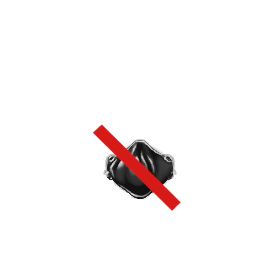
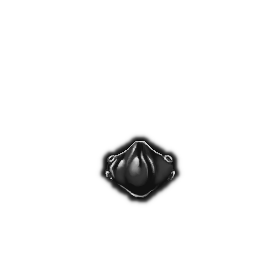
Minor bugs and fixes to Latex Respirator

Changed region(s): [[0.3143, 0.4286, 0.6571, 0.7714]]

diff --git a/BondageClub/Assets/Female3DCG/Female3DCG.js b/BondageClub/Assets/Female3DCG/Female3DCG.js
@@ -6339,9 +6339,9 @@ var AssetFemale3DCG = [
 					{ Name: "Straps", HasType: false, AllowModuleTypes:["s1"],},
 					{ Name: "StrapShade", HasType: false, AllowModuleTypes:["s1"],AllowColorize: false,},
 
-					{ Name: "Base", HasType: false, AllowModuleTypes:["m0"], },
-					{ Name: "Shade", HasType: false, AllowColorize: false, AllowModuleTypes:["m0"],},
-					{ Name: "RoundedShine", HasType: false, AllowModuleTypes:["m0"],},
+					{ Name: "Base", HasType: false, AllowModuleTypes:["m0","m1"], },
+					{ Name: "Shade", HasType: false, AllowColorize: false, AllowModuleTypes:["m0","m1"],},
+					{ Name: "RoundedShine", HasType: false, AllowModuleTypes:["m0","m1"],},
 
 					{ Name: "Filter", HasType: false, AllowModuleTypes: ["f1l0"]},
 					{ Name: "FilterFixing", HasType: false, AllowModuleTypes: ["f1l0"]},

diff --git a/BondageClub/Assets/Female3DCG/Female3DCGExtended.js b/BondageClub/Assets/Female3DCG/Female3DCGExtended.js
@@ -6266,7 +6266,12 @@ var AssetFemale3DCGExtended = {
                     },
                     {
                         Name: "Mask", Key: "m",
-                        Options: [ {Effect:["BlockMouth"]}, {},] // Mask, No Mask
+                        Options: [ 
+							{Property: {Effect: ["BlockMouth"]}}, 
+							{Property: {Effect: ["BlockMouth", "GagVeryLight"]}}, 
+							{Property: {Effect:[""]}},
+					
+						] // Mask, Thick Filters, No Mask
                     },
 					{
 						Name: "Length", Key: "l",
